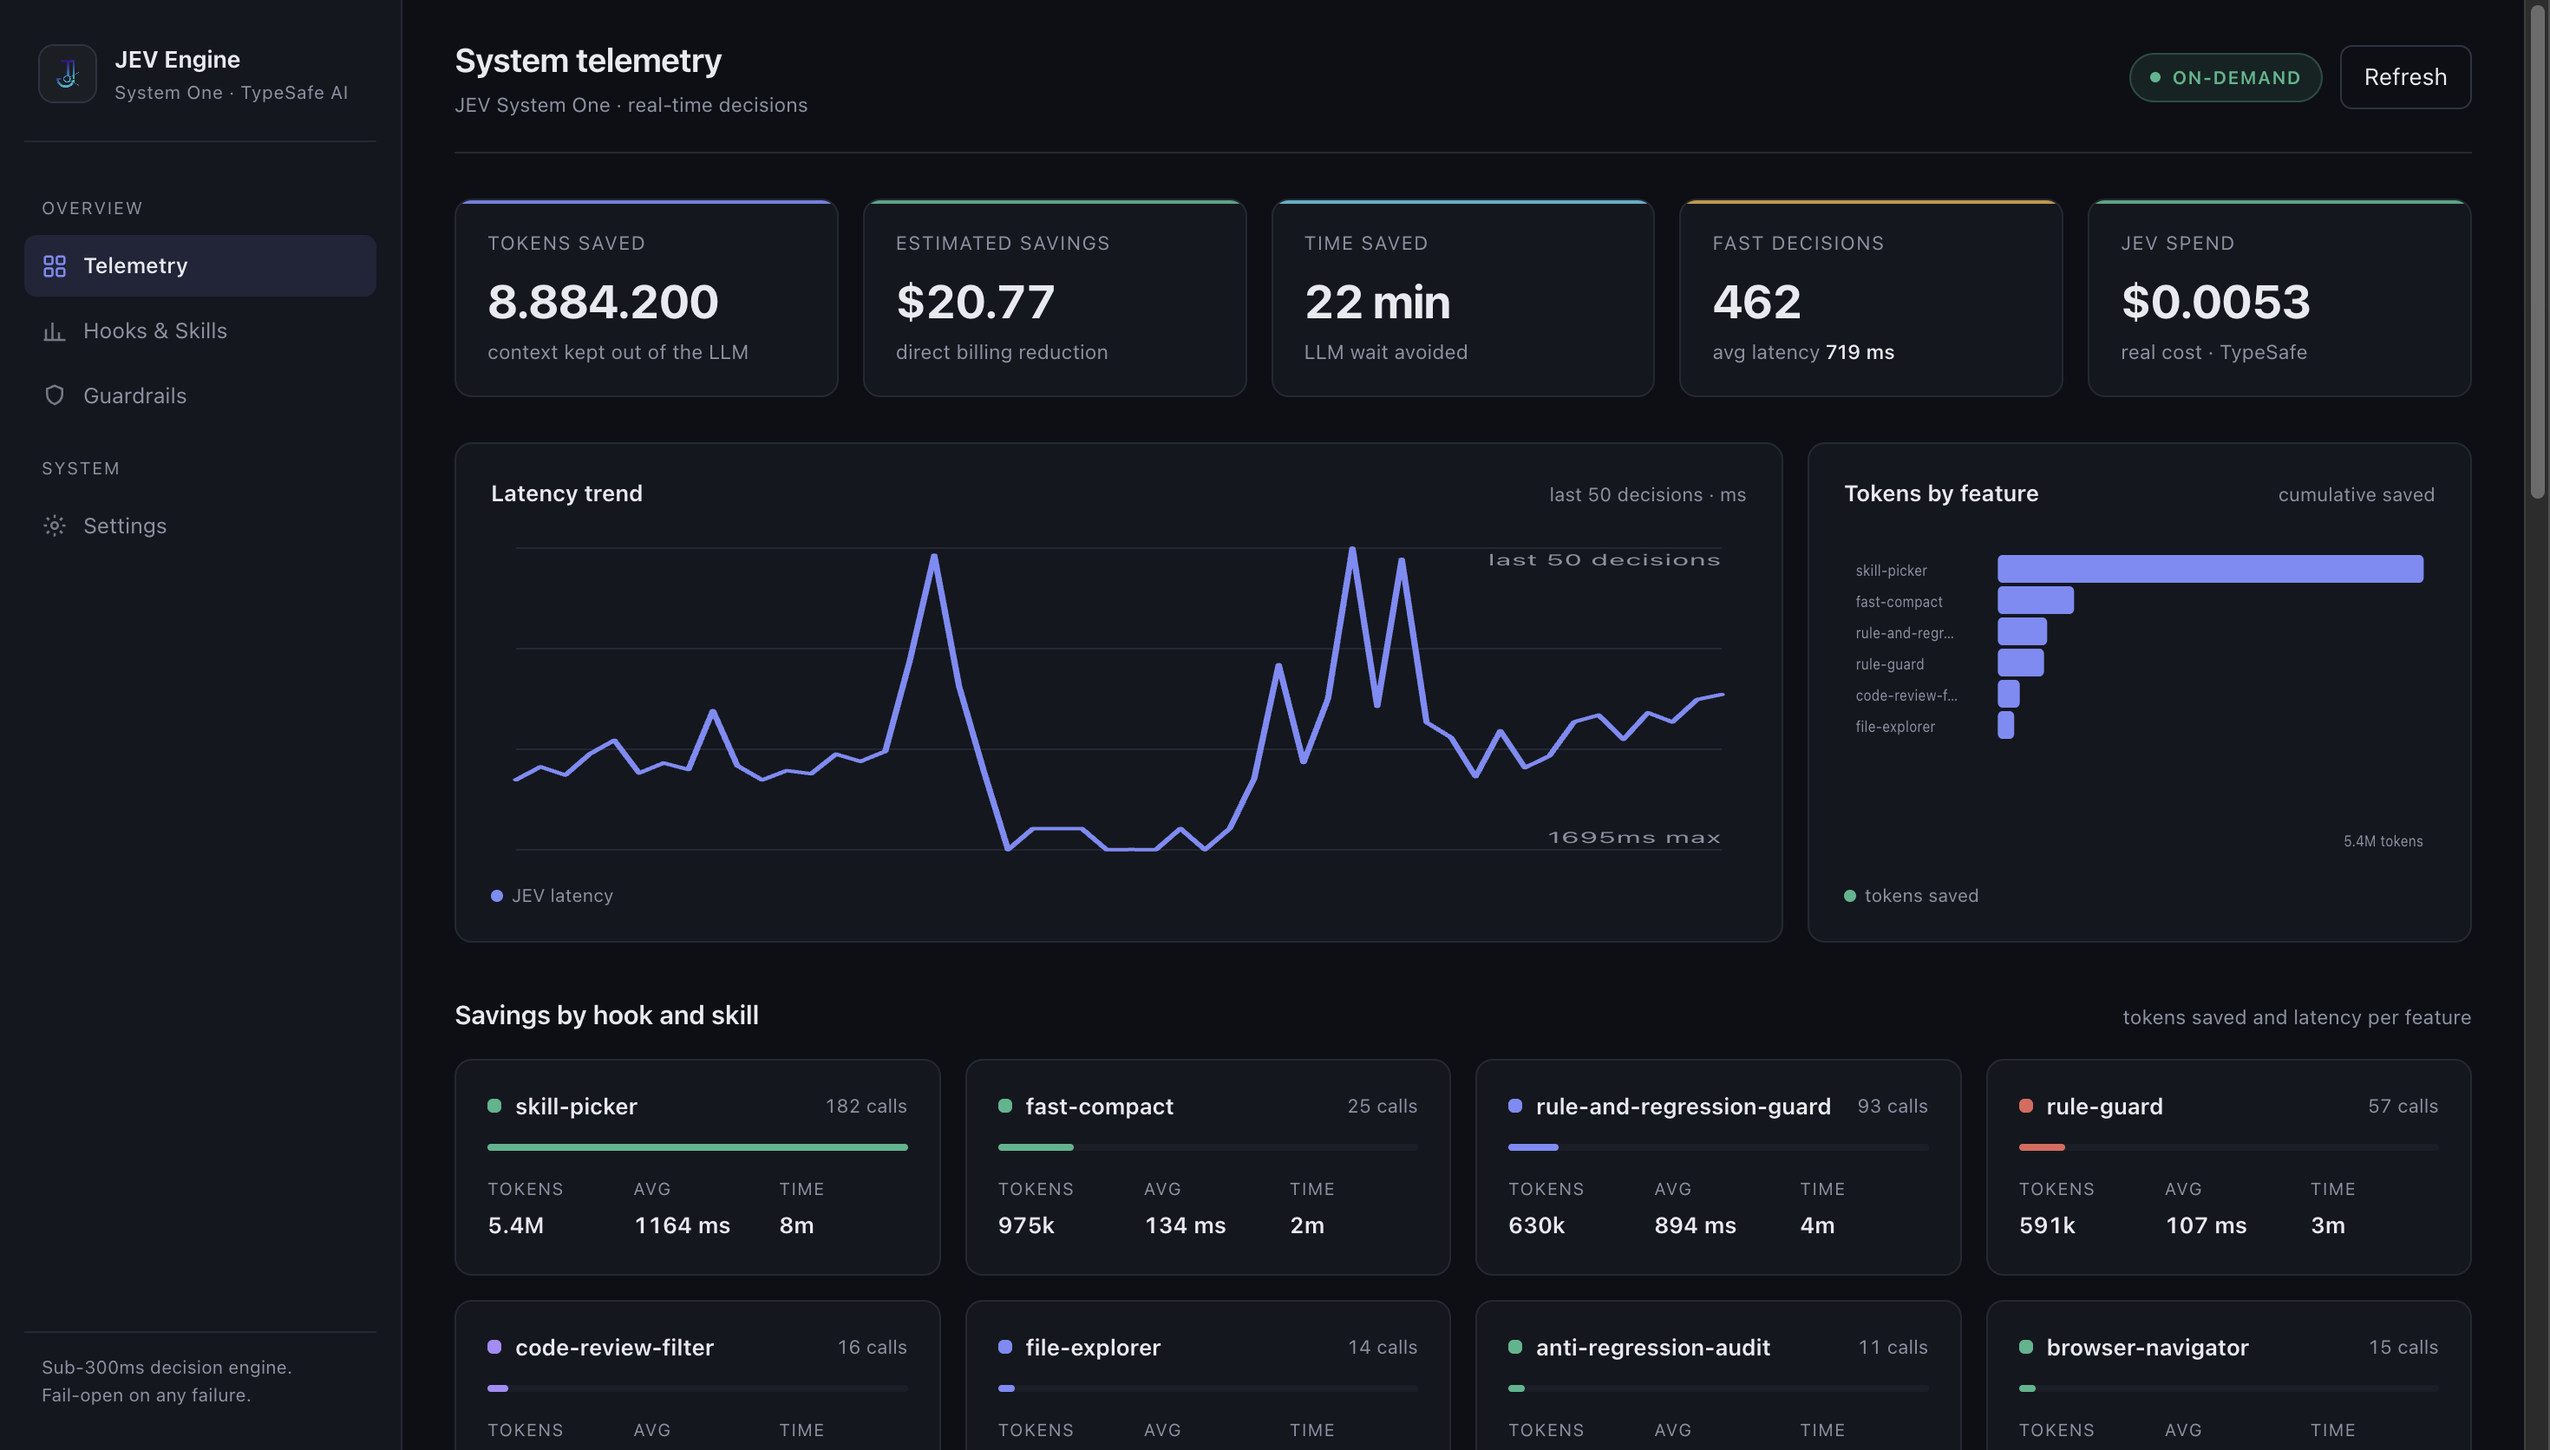
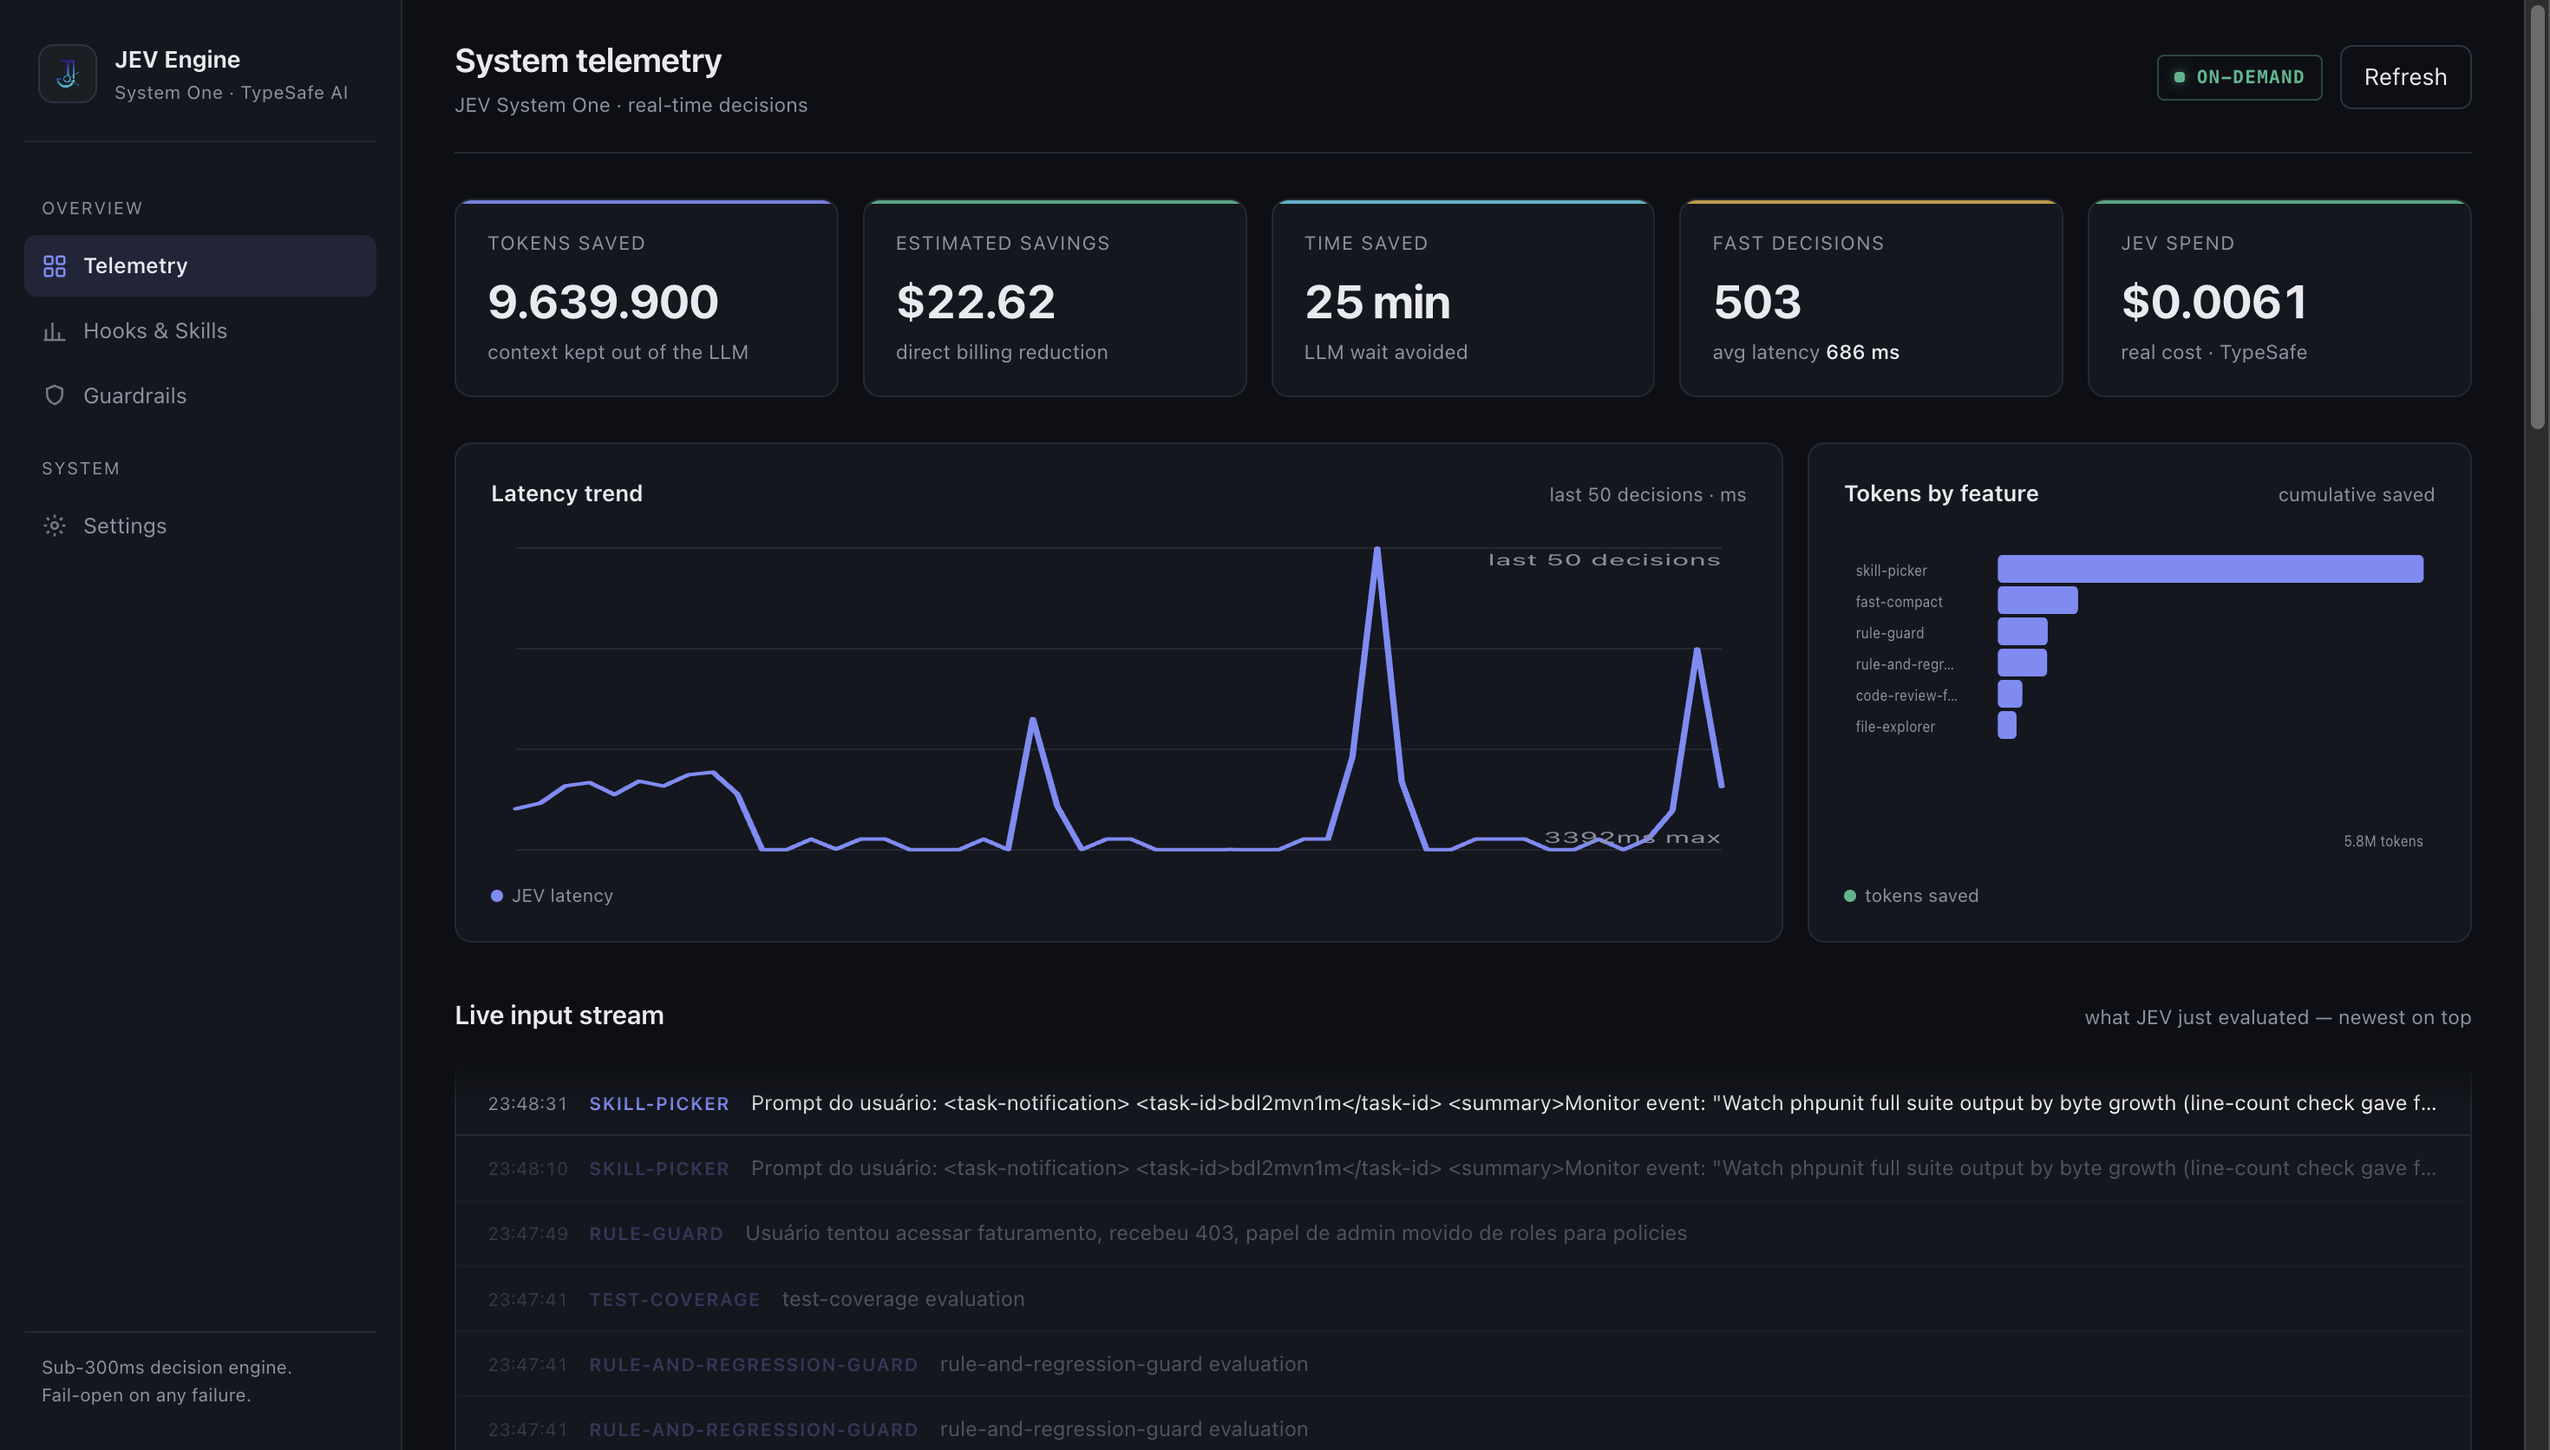
feat(dashboard): live input stream + on-demand badge restyle
- Live input stream: feed of what JEV just evaluated, newest on top with
  shimmer animation, older items faded (opacity .28), auto-fading mask,
  auto-updates with telemetry
- Client records input_preview (truncated state) per decision
- Badge restyled: rectangular (4px), mono font, square glow dot — no more
  generic AI pill

diff --git a/src/dashboard.js b/src/dashboard.js
@@ -116,11 +116,17 @@ export function createDashboardHtml(initialData, projectDir) {
     .badge {
       display: inline-flex; align-items: center; gap: 7px;
       font-size: 10.5px; font-weight: 600; letter-spacing: 0.06em; text-transform: uppercase;
-      color: var(--good); background: var(--good-dim);
-      border: 1px solid rgba(63,182,139,0.28);
-      padding: 5px 11px; border-radius: 999px;
+      color: var(--good);
+      border: 1px solid rgba(63,182,139,0.35);
+      border-radius: 4px;
+      padding: 4px 9px;
+      font-family: ui-monospace, "SF Mono", Menlo, monospace;
+      background: transparent;
     }
-    .badge::before { content: ""; width: 6px; height: 6px; border-radius: 50%; background: var(--good); }
+    .badge::before {
+      content: ""; width: 6px; height: 6px; border-radius: 2px;
+      background: var(--good); box-shadow: 0 0 6px rgba(63,182,139,0.6);
+    }
 
     /* ---- KPI ---- */
     .kpis { display: grid; grid-template-columns: repeat(5, 1fr); gap: 14px; margin-bottom: 26px; }
@@ -174,6 +180,50 @@ export function createDashboardHtml(initialData, projectDir) {
     .chart-legend .dot { width: 7px; height: 7px; border-radius: 50%; display: inline-block; margin-right: 5px; }
     .chart-legend .dot.lat { background: var(--accent); }
     .chart-legend .dot.tok { background: var(--good); }
+
+    /* ---- Live input stream ---- */
+    .stream {
+      position: relative;
+      max-height: 320px;
+      overflow: hidden;
+      background: var(--surface);
+      border: 1px solid var(--border); border-radius: 10px;
+      padding: 6px 0;
+      mask-image: linear-gradient(180deg, transparent 0, #000 28px, #000 calc(100% - 28px), transparent 100%);
+      -webkit-mask-image: linear-gradient(180deg, transparent 0, #000 28px, #000 calc(100% - 28px), transparent 100%);
+    }
+    .stream-item {
+      padding: 9px 18px;
+      border-bottom: 1px solid var(--border);
+      display: flex; gap: 12px; align-items: baseline;
+      opacity: 0.28;
+      transition: opacity .6s ease;
+      font-size: 12px;
+    }
+    .stream-item:last-child { border-bottom: none; }
+    .stream-item .s-time { color: var(--muted); font-size: 10.5px; white-space: nowrap; font-variant-numeric: tabular-nums; }
+    .stream-item .s-feat { color: var(--accent); font-size: 10.5px; text-transform: uppercase; letter-spacing: 0.06em; white-space: nowrap; font-weight: 600; }
+    .stream-item .s-text { color: var(--fg); overflow: hidden; text-overflow: ellipsis; white-space: nowrap; flex: 1; }
+    .stream-item.is-new {
+      opacity: 1;
+      animation: streamIn .8s ease, shimmer 2.4s ease 1;
+    }
+    .stream-item.is-new .s-text {
+      background: linear-gradient(90deg, var(--fg) 0%, #ffffff 50%, var(--fg) 100%);
+      background-size: 200% 100%;
+      -webkit-background-clip: text;
+      background-clip: text;
+      color: transparent;
+      animation: shimmerText 2.4s ease 1;
+    }
+    @keyframes streamIn {
+      from { opacity: 0; transform: translateY(-6px); }
+      to { opacity: 1; transform: translateY(0); }
+    }
+    @keyframes shimmerText {
+      0% { background-position: 200% 0; }
+      100% { background-position: -200% 0; }
+    }
 
     /* ---- Feature cards ---- */
     .grid {
@@ -329,6 +379,14 @@ export function createDashboardHtml(initialData, projectDir) {
 
     <div class="section">
       <div class="section-head">
+        <div class="section-title">Live input stream</div>
+        <div class="section-note">what JEV just evaluated — newest on top</div>
+      </div>
+      <div class="stream" id="stream-list"></div>
+    </div>
+
+    <div class="section">
+      <div class="section-head">
         <div class="section-title">Savings by hook and skill</div>
         <div class="section-note">tokens saved and latency per feature</div>
       </div>
@@ -433,6 +491,42 @@ export function createDashboardHtml(initialData, projectDir) {
 
       renderLatencyChart(entries);
       renderFeatureBars(data.by_feature || {});
+      renderStream(entries);
+    }
+
+    // --- Live input stream (newest shimmer, older faded) ---
+    let lastStreamKey = '';
+    function renderStream(entries) {
+      const list = document.getElementById('stream-list');
+      const items = (entries || []).slice(0, 12);
+      if (items.length === 0) { list.innerHTML = ''; return; }
+      const newestKey = items[0].timestamp + '_' + (items[0].feature || '') + '_' + (items[0].jev_latency_ms || '');
+      const isRefresh = newestKey !== lastStreamKey;
+      lastStreamKey = newestKey;
+
+      let html = '';
+      items.forEach((e, i) => {
+        const cls = i === 0 ? 'stream-item is-new' : 'stream-item';
+        const t = e.timestamp ? new Date(e.timestamp).toLocaleTimeString('pt-BR', { hour12: false }) : '--:--:--';
+        const text = e.input_preview || (e.feature || 'general') + ' evaluation';
+        html += '<div class="' + cls + '">' +
+          '<span class="s-time">' + t + '</span>' +
+          '<span class="s-feat">' + (e.feature || 'general') + '</span>' +
+          '<span class="s-text">' + escapeHtml(text) + '</span>' +
+          '</div>';
+      });
+      list.innerHTML = html;
+
+      if (isRefresh) {
+        // auto-scroll: newest at top, older flow down — animate container
+        list.style.transition = 'transform 0.8s ease';
+        list.style.transform = 'translateY(0)';
+      }
+    }
+    function escapeHtml(s) {
+      return String(s || '').replace(/[&<>"']/g, c => (
+        { '&': '&amp;', '<': '&lt;', '>': '&gt;', '"': '&quot;', "'": '&#39;' }[c]
+      ));
     }
 
     // --- Latency line/area chart (inline SVG, last 50 decisions) ---

diff --git a/src/client.js b/src/client.js
@@ -86,6 +86,7 @@ export class JevClient {
         jev_latency_ms: latency,
         jev_input_tokens: inputTokens,
         jev_cost_usd: Number(jevCostUsd.toFixed(8)),
+        input_preview: meta.inputPreview || truncatePreview(state),
         estimated_llm_tokens_saved: meta.tokensSpared || 15000,
         estimated_llm_latency_ms: meta.llmLatency || 3200,
         status: 'success'
@@ -113,4 +114,10 @@ export class JevClient {
       };
     }
   }
+}
+
+function truncatePreview(s, max = 280) {
+  if (typeof s !== 'string' || !s.trim()) return '';
+  const oneLine = s.replace(/\s+/g, ' ').trim();
+  return oneLine.length > max ? oneLine.slice(0, max) + '…' : oneLine;
 }

diff --git a/src/telemetry.js b/src/telemetry.js
@@ -25,6 +25,7 @@ export function recordTelemetry(entry, projectDir = process.cwd()) {
       jev_latency_ms: entry.jev_latency_ms || 120,
       jev_input_tokens: entry.jev_input_tokens || 0,
       jev_cost_usd: entry.jev_cost_usd || 0.000008,
+      input_preview: entry.input_preview || '',
       estimated_llm_latency_ms: entry.estimated_llm_latency_ms || 3000,
       estimated_llm_tokens_saved: entry.estimated_llm_tokens_saved || 15000,
       estimated_llm_cost_saved_usd: entry.estimated_llm_cost_saved_usd || 0.045,
